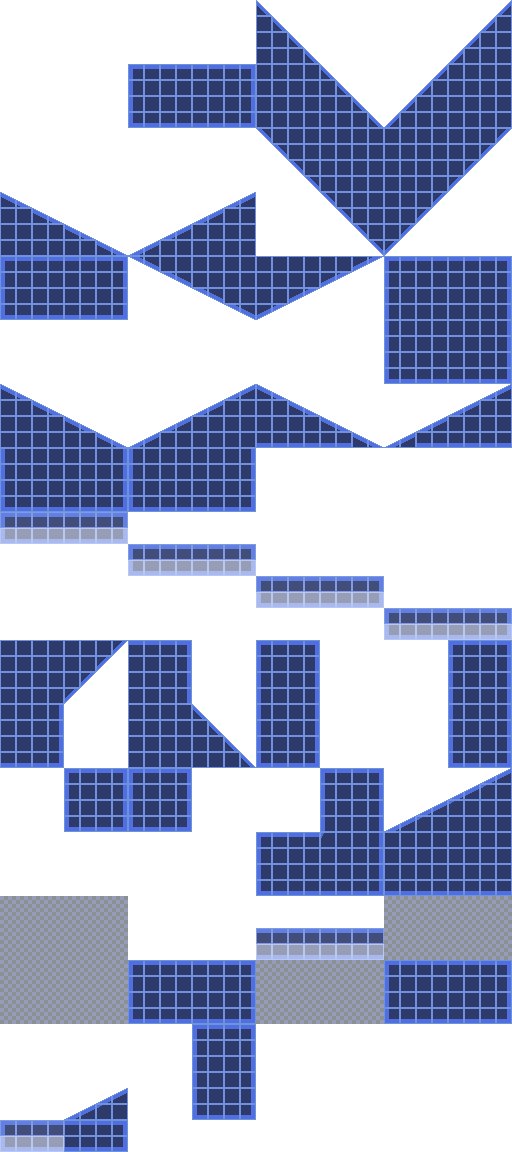
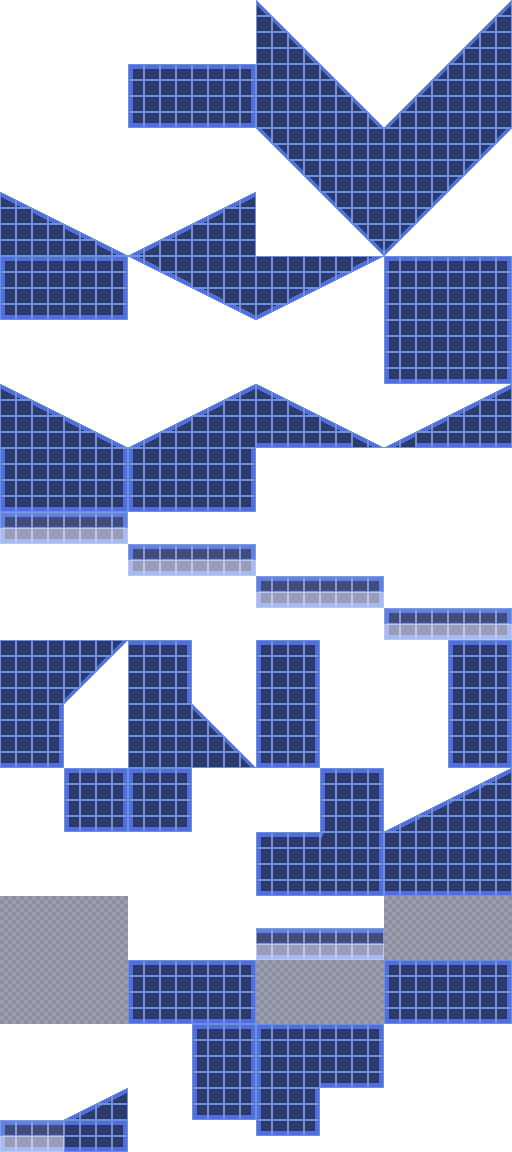
Add first rendering POC, rendering rings

Changed region(s): [[0.5, 0.875, 0.75, 1.0]]

diff --git a/src/level.c b/src/level.c
@@ -5,6 +5,8 @@
 #include "render.h"
 #include "memalloc.h"
 
+#include "object.h"
+
 #define MAX_TILES 1400
 
 ArenaAllocator _level_arena = { 0 };
@@ -389,7 +391,8 @@ get_chunk_pos(int32_t vx, int32_t vy, int32_t lvlwidth, int32_t lvlheight)
 }
 
 void
-_render_obj(ObjectState *obj, int32_t cx, int32_t cy, int32_t tx, int32_t ty)
+_render_obj(ObjectState *obj, ObjectTableEntry *typedata,
+            int32_t cx, int32_t cy, int32_t tx, int32_t ty)
 {
     if((obj->props & OBJ_FLAG_DESTROYED) || (obj->props & OBJ_FLAG_INVISIBLE))
         return;
@@ -403,14 +406,10 @@ _render_obj(ObjectState *obj, int32_t cx, int32_t cy, int32_t tx, int32_t ty)
     int16_t vx = (int16_t)(tx << 7) + obj->rx;
     int16_t vy = (int16_t)(ty << 7) + obj->ry;
 
-    // Correct bottom for a debug drawing
-    vy -= 32;
-
     // Now that vx and vy are the world's absolute world positions,
     // all we need to do is subtrack the camera position from it
 
     // Calculate screen position
-    // TODO: buggy!
     cx -= CENTERX; cy -= CENTERY;
     int16_t px = vx - cx;
     int16_t py = vy - cy;
@@ -418,30 +417,39 @@ _render_obj(ObjectState *obj, int32_t cx, int32_t cy, int32_t tx, int32_t ty)
     // TODO: THIS IS A DEBUG RENDER!
     // CHANGE THIS TO AN ACTUAL OBJECT RENDER WITH PROPER
     // ANIMATION CONTROLS. ^u^
-    POLY_F4 *poly = (POLY_F4 *)get_next_prim();
-    setPolyF4(poly);
-    increment_prim(sizeof(POLY_F4));
-    if(obj->id == 0)
-        setRGB0(poly, 128, 128, 0);
-    else setRGB0(poly, 128, 0, 0);
-    setXYWH(poly, px - 8, py - 8, 16, 16);
-    sort_prim(poly, 3); // 3 = sprite layer
+    object_render(obj, typedata, px, py);
+
+    // Debug render
+    if(debug_mode > 1) {
+        POLY_F4 *poly = (POLY_F4 *)get_next_prim();
+        setPolyF4(poly);
+        increment_prim(sizeof(POLY_F4));
+        if(obj->id == 0)
+            setRGB0(poly, 128, 128, 0);
+        else setRGB0(poly, 128, 0, 0);
+        setXYWH(poly, px - 8, py - 8 - 32, 16, 16);
+        sort_prim(poly, 3); // 3 = sprite layer
+    }
 }
 
 void
-_render_obj_window(LevelData *lvl, int32_t cx, int32_t cy)
+_render_obj_window(LevelData *lvl, ObjectTable *tbl, int32_t cx, int32_t cy)
 {
     int32_t chunk;
     int32_t w = lvl->layers[0].width;
     int32_t h = lvl->layers[0].height;
 
-#define _DO_RENDER(x, y)                                                \
-    chunk = get_chunk_pos(x, y, w, h);                                  \
-    if(chunk > 0) {                                                     \
-        ChunkObjectData *objdata = lvl->objects[chunk];                 \
-        if(objdata)                                                     \
-            for(uint8_t i = 0; i < objdata->num_objects; i++)           \
-                _render_obj(&objdata->objects[i], cx, cy, (x) >> 7, (y) >> 7); \
+#define _DO_RENDER(x, y)                                                 \
+    chunk = get_chunk_pos(x, y, w, h);                                   \
+    if(chunk > 0) {                                                      \
+        ChunkObjectData *objdata = lvl->objects[chunk];                  \
+        if(objdata) {                                                    \
+            for(uint8_t i = 0; i < objdata->num_objects; i++) {          \
+                ObjectState *obj = &objdata->objects[i];                 \
+                ObjectTableEntry *typedata = &tbl->entries[obj->id];     \
+                _render_obj(obj, typedata, cx, cy, (x) >> 7, (y) >> 7);  \
+            }                                                            \
+        }                                                                \
     }
 
     // Render a 5x5 grid of objects.
@@ -452,23 +460,12 @@ _render_obj_window(LevelData *lvl, int32_t cx, int32_t cy)
             _DO_RENDER(new_cx, new_cy);
         }
     }
-
-    /* _DO_RENDER(cx - 128, cy - 128); */
-    /* _DO_RENDER(cx,       cy - 128); */
-    /* _DO_RENDER(cx + 128, cy - 128); */
-
-    /* _DO_RENDER(cx - 128, cy); */
-    /* _DO_RENDER(cx,       cy); */
-    /* _DO_RENDER(cx + 128, cy); */
-
-    /* _DO_RENDER(cx - 128, cy + 128); */
-    /* _DO_RENDER(cx,       cy + 128); */
-    /* _DO_RENDER(cx + 128, cy + 128); */
 }
 
 void
 render_lvl(
     LevelData *lvl, TileMap128 *map128, TileMap16 *map16,
+    ObjectTable *tbl,
     int32_t cam_x, int32_t cam_y)
 {
     _numsprites = 0;
@@ -487,6 +484,6 @@ render_lvl(
     sort_prim(tpage, OT_LENGTH - 1);
 
     // Render objects on nearest window
-    _render_obj_window(lvl, cx, cy);
+    _render_obj_window(lvl, tbl, cx, cy);
 }
 

diff --git a/src/object_state.c b/src/object_state.c
@@ -6,6 +6,8 @@
 #include "object_state.h"
 #include "util.h"
 #include "memalloc.h"
+#include "level.h"
+#include "render.h"
 
 extern ArenaAllocator _level_arena;
 
@@ -39,8 +41,9 @@ _emplace_object(
 }
 
 void
-load_object_placement(const char *filename, LevelData *lvl)
+load_object_placement(const char *filename, void *lvl_data)
 {
+    LevelData *lvl = (LevelData *)lvl_data;
     uint8_t *bytes;
     uint32_t b, length;
 
@@ -111,4 +114,54 @@ load_object_placement(const char *filename, LevelData *lvl)
     printf("Loaded %d objects.\n", created_objects);
 
     free(bytes);
+}
+
+
+void object_render(ObjectState *state, ObjectTableEntry *typedata,
+                   int16_t vx, int16_t vy)
+{
+    // Only show rings for now
+    if(state->id != OBJ_RING) return;
+
+    // TODO: This should be part of an update
+    ObjectAnimState *anim = &state->anim_state;
+    if(anim->animation >= typedata->num_animations) return;
+
+    ObjectAnim *an = &typedata->animations[anim->animation];
+    // TODO: check if animation is locked
+    if(anim->counter == 0) {
+        anim->frame++;
+        anim->counter = 6; // TODO: Set to duration
+    } else anim->counter--;
+    if(anim->frame >= an->num_frames) {
+        if(an->loopback >= 0) anim->frame = an->loopback;
+        else {
+            anim->frame = 0;
+            anim->animation = 0xff; // 255 = no animation
+            state->props |= OBJ_FLAG_DESTROYED;
+            return;
+        }
+    }
+
+    ObjectAnimFrame *frame = &an->frames[anim->frame];
+
+    // Calculate actual position from width and height
+    vx -= frame->w >> 1;
+    vy -= 48 - (frame->h >> 1);
+
+    // COMMON OBJECTS have the following VRAM coords:
+    // Sprites: 576x0
+    // CLUT: 576x256
+
+    POLY_FT4 *poly = (POLY_FT4 *)get_next_prim();
+    increment_prim(sizeof(POLY_FT4));
+    setPolyFT4(poly);
+    setRGB0(poly, 128, 128, 128);
+
+    poly->tpage = getTPage(0, 0, 576, 0);
+    poly->clut = getClut(576, 256);
+
+    setXYWH(poly, vx, vy, frame->w, frame->h);
+    setUVWH(poly, frame->u0, frame->v0, frame->w, frame->h);
+    sort_prim(poly, 3);
 }

diff --git a/include/object_state.h b/include/object_state.h
@@ -3,9 +3,13 @@
 
 #include <stdint.h>
 
+#include "object.h"
+
 /* ======================== */
 /*  OBJECT STATE STRUCTURE */
 /* ======================== */
+
+#define MAX_OBJECTS_PER_CHUNK 15
 
 typedef enum {
     OBJ_FLAG_DESTROYED = 0x1,
@@ -20,6 +24,7 @@ typedef struct {
 typedef struct {
     uint16_t animation;
     uint8_t  frame;
+    uint8_t  counter;
 } ObjectAnimState;
 
 typedef struct {
@@ -31,5 +36,18 @@ typedef struct {
 
     ObjectAnimState anim_state;
 } ObjectState;
+
+typedef struct {
+    uint8_t num_objects;
+    ObjectState objects[MAX_OBJECTS_PER_CHUNK];
+} ChunkObjectData;
+
+// ATTENTION: Coordinates used are already the hotspot coordinates
+// for the object on the screen, so they must be from after camera
+// transformation!
+void object_render(ObjectState *state, ObjectTableEntry *typedata,
+                   int16_t vx, int16_t vy);
+
+void object_update(ObjectState *state, ObjectTableEntry *typedata);
 
 #endif

diff --git a/include/level.h b/include/level.h
@@ -4,6 +4,7 @@
 #include <stdint.h>
 #include <psxgpu.h>
 
+#include "object.h"
 #include "object_state.h"
 
 #define LEVEL_MAX_X_CHUNKS   255
@@ -53,13 +54,6 @@ typedef struct {
     uint16_t *tiles;
 } LevelLayerData;
 
-#define MAX_OBJECTS_PER_CHUNK 15
-
-typedef struct {
-    uint8_t num_objects;
-    ObjectState objects[MAX_OBJECTS_PER_CHUNK];
-} ChunkObjectData;
-
 typedef struct {
     uint8_t num_layers;
     uint8_t _unused0;
@@ -82,10 +76,11 @@ void load_lvl(LevelData *lvl, const char *filename);
 void prepare_renderer(LevelData *lvl);
 void render_lvl(
     LevelData *lvl, TileMap128 *map128, TileMap16 *map16,
+    ObjectTable *tbl,
     int32_t cam_x, int32_t cam_y);
 
 
 // Object-related. These are defined in object_state.c
-void load_object_placement(const char *filename, LevelData *lvl);
+void load_object_placement(const char *filename, void *lvl_data);
 
 #endif

diff --git a/src/screen_level.c b/src/screen_level.c
@@ -194,7 +194,7 @@ screen_level_draw(void *d)
         
     /* render_model(&data->ring); */
 
-    render_lvl(&leveldata, &map128, &map16, camera.pos.vx, camera.pos.vy);
+    render_lvl(&leveldata, &map128, &map16, &obj_table_common, camera.pos.vx, camera.pos.vy);
 
     // Gouraud-shaded cube
     /* RotMatrix(&rotation, &world); */
@@ -359,8 +359,15 @@ level_load_level()
     load_lvl(&leveldata, filename0);
 
     // Load common objects
+    printf("Loading common object texture...\n");
+    file_read("\\LEVELS\\COMMON\\OBJ.TIM;1", &filelength);
+    if(timfile) {
+        load_texture(timfile, &tim);
+        free(timfile);
+    }
+
     printf("Loading common object table...\n");
-    load_object_table("\\LEVELS\\COMMON\\OBJ.OTD", &obj_table_common);
+    load_object_table("\\LEVELS\\COMMON\\OBJ.OTD;1", &obj_table_common);
 
     // Load level objects
     // TODO

diff --git a/include/object.h b/include/object.h
@@ -3,8 +3,6 @@
 
 #include <stdint.h>
 
-#include "level.h"
-
 /* ======================== */
 /*  OBJECT PROPERTY DATA   */
 /* ======================== */
